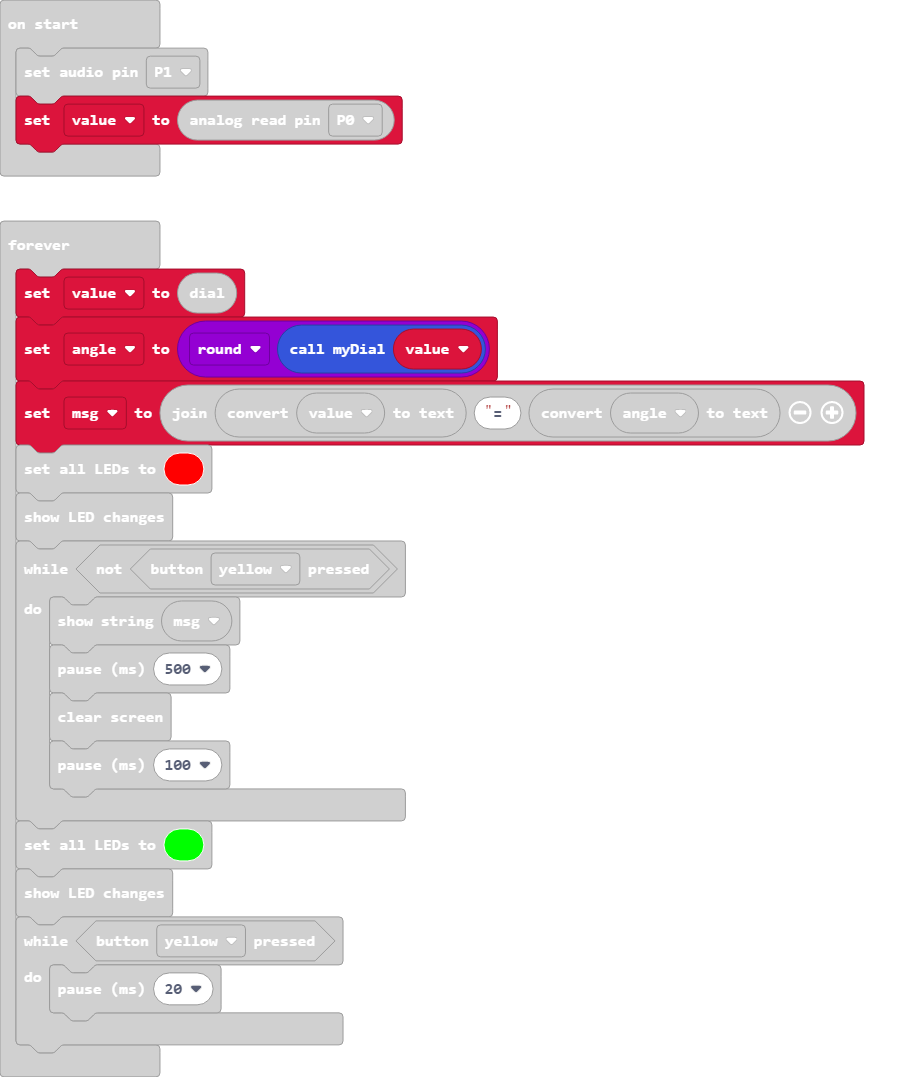
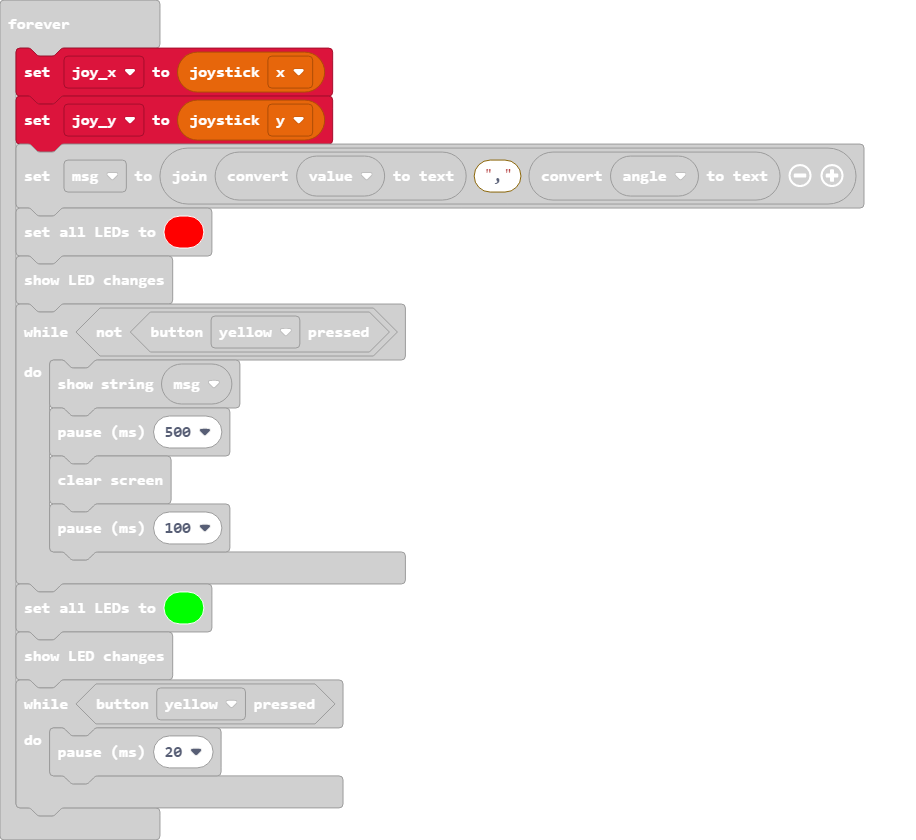
check joystick

Changed region(s): [[0.0, 0.0, 0.9476, 0.9905]]

diff --git a/main.ts b/main.ts
@@ -18,13 +18,15 @@ function myDial (Reading: number) {
     }
 }
 let msg = ""
-let angle = 0
+let joy_y = 0
+let joy_x = 0
 pins.setAudioPin(AnalogPin.P1)
 let value = pins.analogReadPin(AnalogPin.P0)
 basic.forever(function () {
-    value = bitcommander.readDial()
-    angle = Math.round(myDial(value))
-    msg = "" + convertToText(value) + "=" + convertToText(angle)
+    let angle = 0
+    joy_x = bitcommander.readJoystick(BCJoystick.X)
+    joy_y = bitcommander.readJoystick(BCJoystick.Y)
+    msg = "" + convertToText(value) + "," + convertToText(angle)
     bitcommander.setLedColor(0xFF0000)
     bitcommander.ledShow()
     while (!(bitcommander.readButton(BCButtons.Yellow))) {
